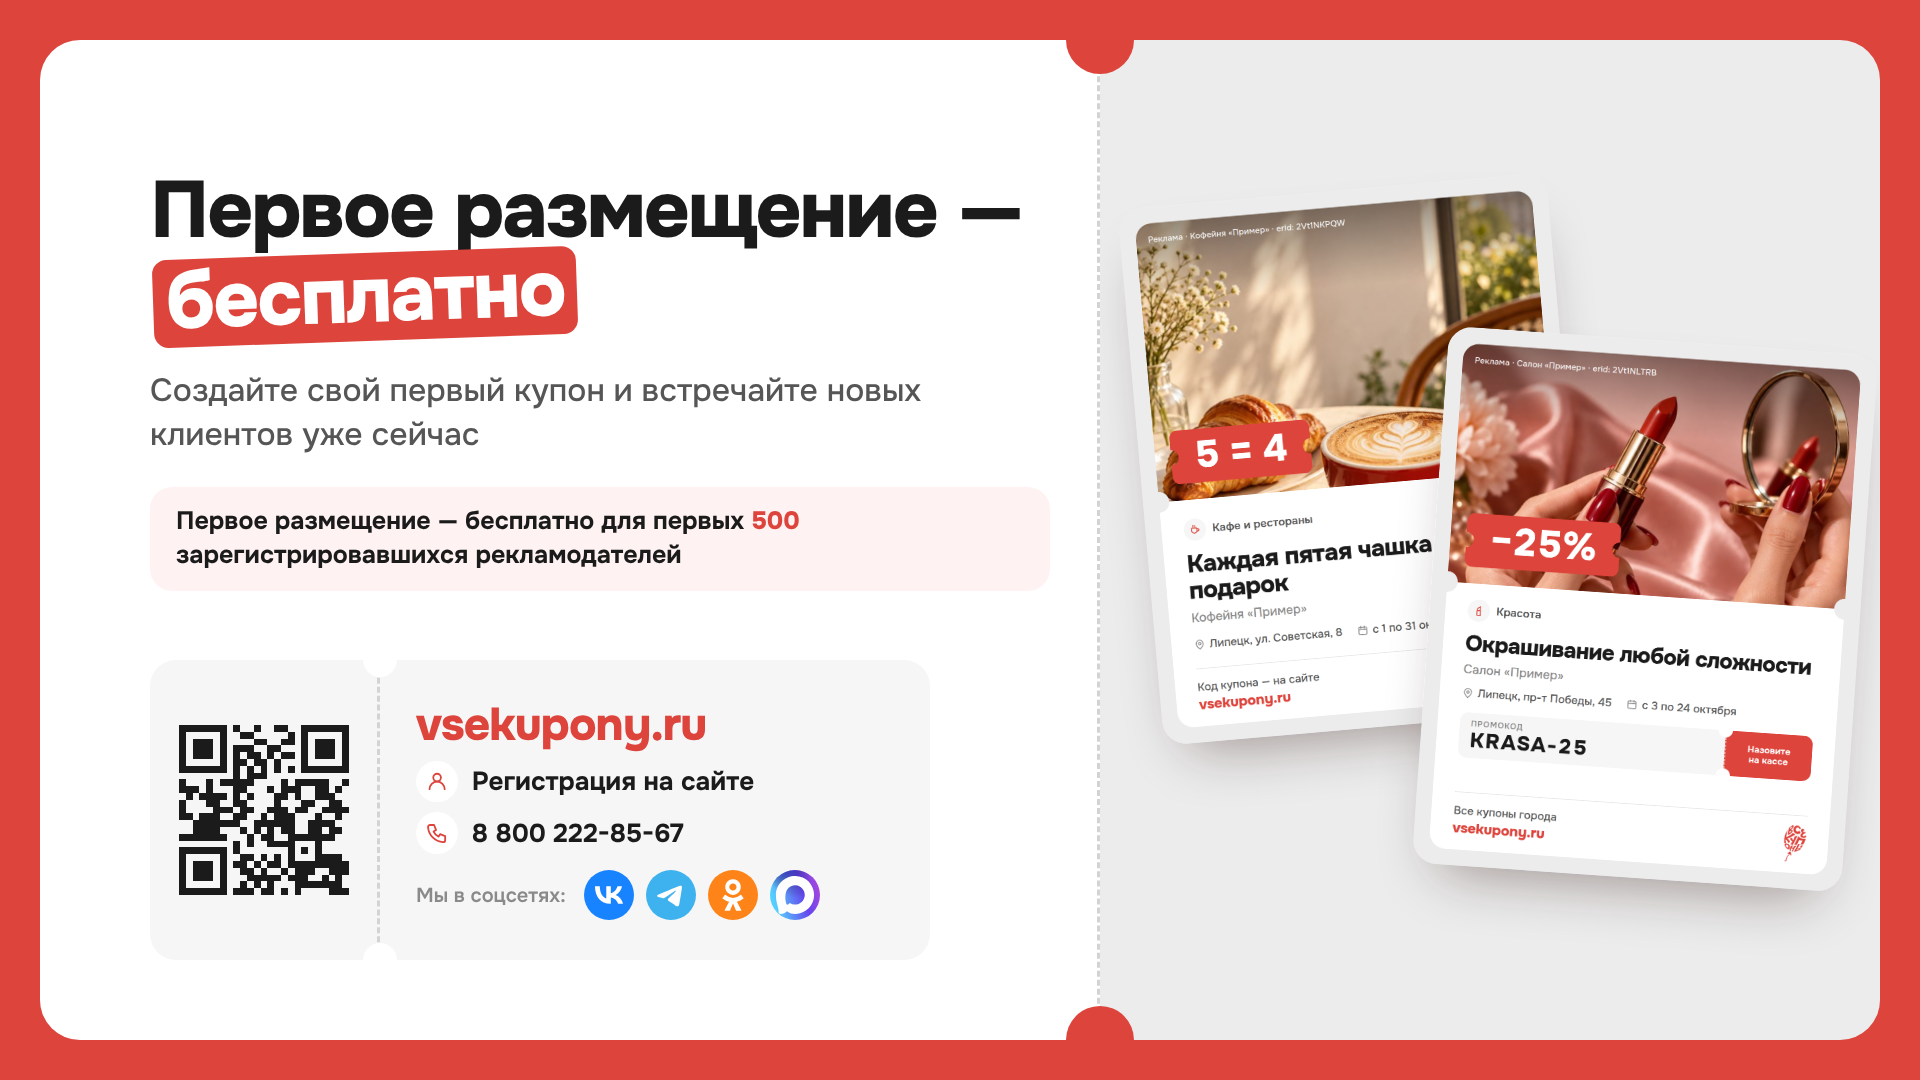
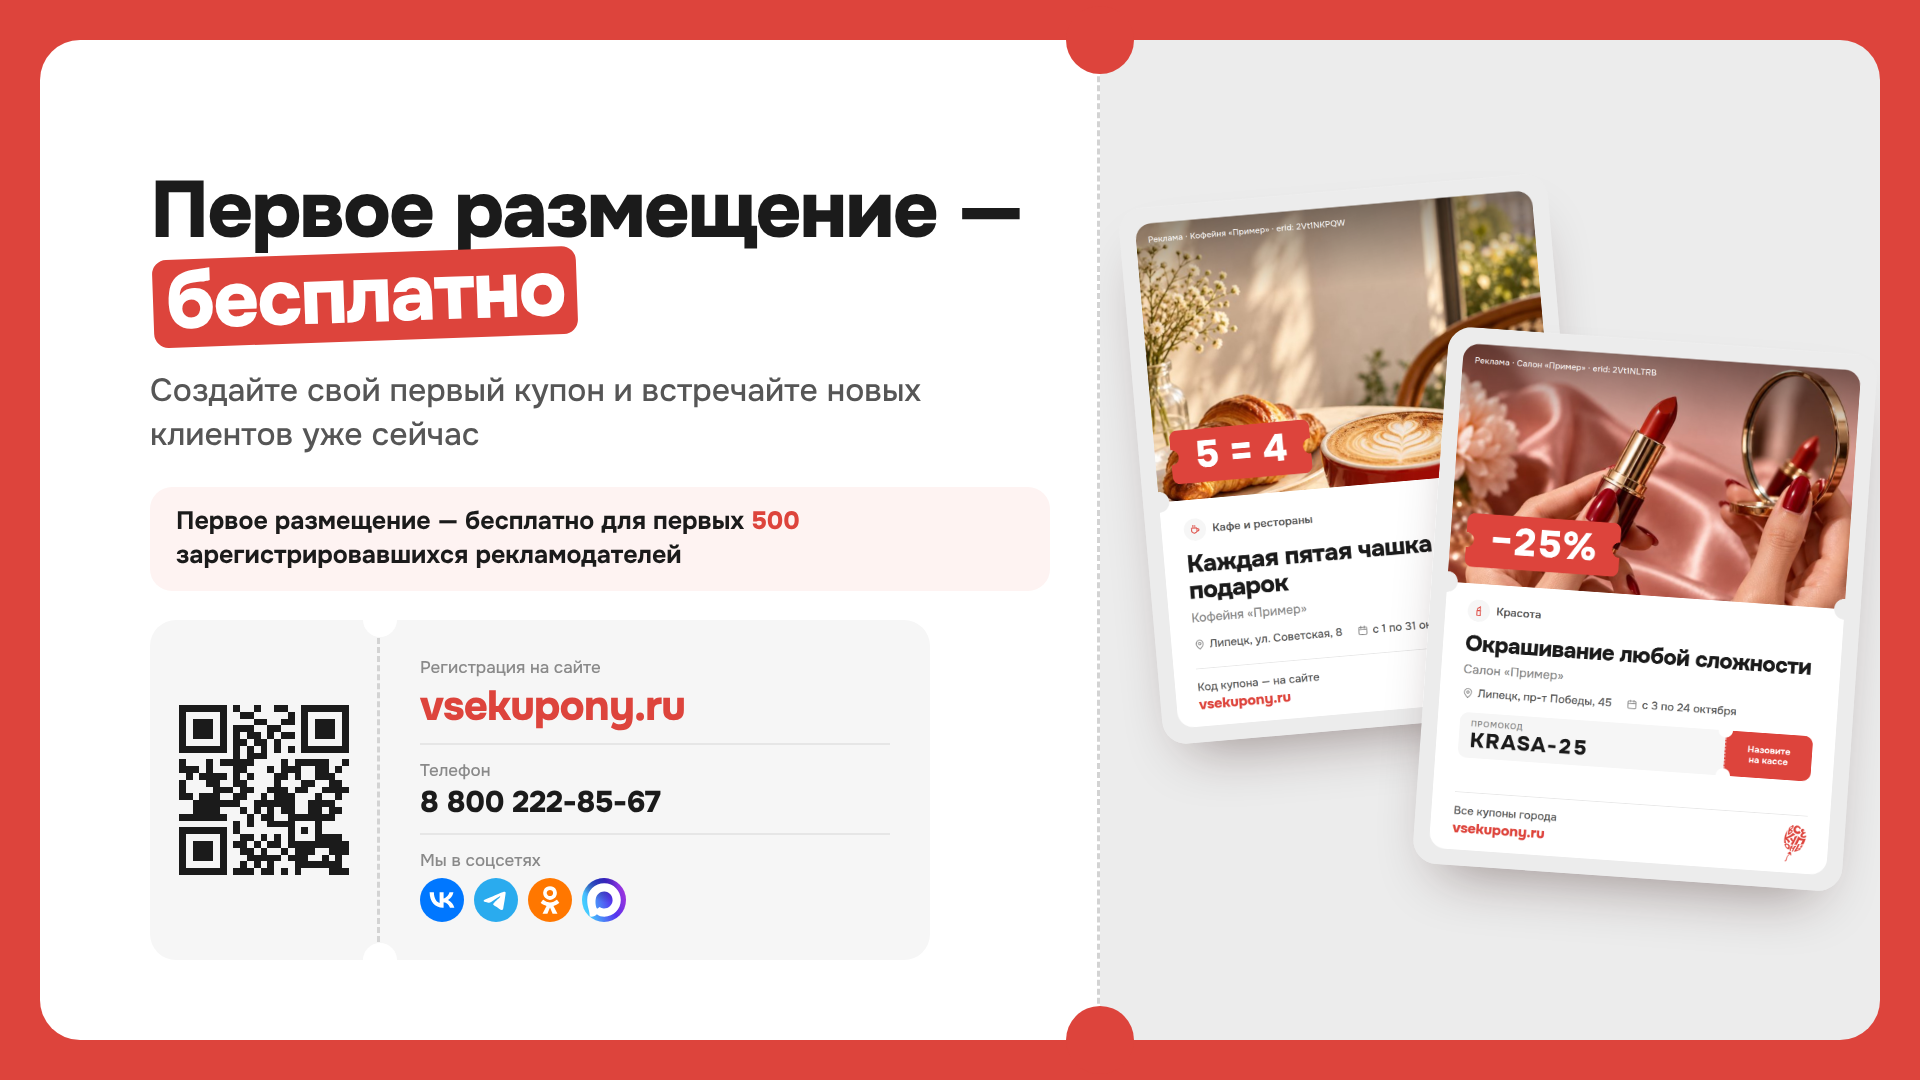
Презентация: QR-купон аккуратнее — группы с подписями, значки одного размера
Сайт, телефон и соцсети — ровными группами друг под другом: подпись
сверху, значение под ней, между группами тонкая линия. render-deck.py
--png — только картинки, без PDF.

Claude-Session: https://claude.ai/code/session_01HQTTQEBkqu3b2tPP56NRpL

Changed region(s): [[0.2188, 0.6111, 0.4375, 0.8556], [0.0938, 0.6417, 0.1875, 0.8556]]

diff --git a/social-kit/deck.html b/social-kit/deck.html
@@ -188,16 +188,19 @@ a{color:inherit;text-decoration:none}
 .qrc__l img{display:block;width:170px;height:170px}
 .qrc__n{position:absolute;left:213px;width:34px;height:34px;border-radius:50%;background:#fff}
 .qrc__n--t{top:-17px}.qrc__n--b{bottom:-17px}
-.qrc__r{flex:1;display:flex;flex-direction:column;justify-content:center;gap:6px;padding:0 36px}
-.qrc__k{font-size:21px;font-weight:600;color:var(--ink-3)}
-.qrc__site{font-size:46px;font-weight:800;letter-spacing:-.02em;color:var(--brand);line-height:1.1}
-.soc{display:flex;align-items:center;gap:12px;margin-top:14px}
-.soc__k{font-size:20px;font-weight:600;color:var(--ink-3);margin-right:6px}
-.soc a{display:block;width:50px;height:50px;border-radius:50%;overflow:hidden}
+/* Правая часть купона — ровные группы друг под другом: маленькая
+   подпись сверху, значение под ней, между группами тонкая линия. */
+.qrc__r{flex:1;display:flex;flex-direction:column;justify-content:center;padding:0 40px}
+.qrc__g{display:flex;flex-direction:column;align-items:flex-start;gap:6px}
+.qrc__g + .qrc__g{margin-top:16px;padding-top:16px;border-top:2px solid #E6E6E6;align-self:stretch}
+.qrc__k{font-size:17px;font-weight:500;color:var(--ink-3);line-height:1.2}
+.qrc__site{font-size:42px;font-weight:800;letter-spacing:-.02em;color:var(--brand);line-height:1}
+.qrc__tel{font-size:30px;font-weight:800;letter-spacing:-.01em;color:var(--ink);line-height:1}
+.soc{display:flex;align-items:center;gap:10px}
+.soc a{display:block;width:44px;height:44px;border-radius:50%;overflow:hidden}
 .soc a svg,.soc a img{display:block;width:100%;height:100%}
 .soc a .soc-ic__bg{fill:var(--soc-c)}
 .soc a .soc-ic__g{fill:#fff}
-.soc a.is-empty{opacity:.9}
 /* Справа — витрина на телефоне (photos/lk/home-mobile.png) с метками:
    знаем город, знаем, что ищут, видим, что смотрят и забирают. */
 .phone-panel{position:absolute;left:1100px;top:40px;right:40px;bottom:40px;border-radius:0 40px 40px 0;background:#ECECEC;overflow:hidden}
@@ -427,9 +430,7 @@ a{color:inherit;text-decoration:none}
 .posts img:nth-child(2){left:330px;top:300px;transform:rotate(4deg)}
 .free{margin-top:30px;display:block;padding:18px 26px;border-radius:22px;background:var(--brand-50);font-size:25px;font-weight:700;line-height:1.35;color:var(--ink)}
 .free b{color:var(--brand)}
-.qrc--big{height:300px}
-.qrc--big .qrc__r{gap:10px}
-.qrc--big .soc{margin-top:6px}
+.qrc--big{height:340px}
 .cont__l{display:flex;flex-direction:column;gap:12px}
 .cont__r{display:flex;align-items:center;gap:14px;font-size:26px;font-weight:700;color:var(--ink)}
 .cont__r .ic{font-size:22px;background:#fff}
@@ -452,12 +453,12 @@ a{color:inherit;text-decoration:none}
         <div class="qrc__l"><a href="https://vsekupony.ru"><img src="qr-site.svg" alt="QR-код: vsekupony.ru"></a></div>
         <i class="qrc__n qrc__n--t"></i><i class="qrc__n qrc__n--b"></i>
         <div class="qrc__r">
-          <span class="qrc__k">Наведите камеру или перейдите по&nbsp;ссылке</span>
-          <a class="qrc__site" href="https://vsekupony.ru">vsekupony.ru</a>
-          <div class="soc"><span class="soc__k">Мы&nbsp;в&nbsp;соцсетях:</span>
-            <a data-soc="vk" title="ВКонтакте"></a><a data-soc="tg" title="Telegram"></a><a data-soc="ok" title="Одноклассники"></a><a data-soc="max" title="MAX"></a>
-          </div>
+          <div class="qrc__g"><span class="qrc__k">Наведите камеру или перейдите по&nbsp;ссылке</span>
+            <a class="qrc__site" href="https://vsekupony.ru">vsekupony.ru</a></div>
+          <div class="qrc__g"><span class="qrc__k">Мы&nbsp;в&nbsp;соцсетях</span>
+            <div class="soc"><a data-soc="vk" title="ВКонтакте"></a><a data-soc="tg" title="Telegram"></a><a data-soc="ok" title="Одноклассники"></a><a data-soc="max" title="MAX"></a></div></div>
         </div>
+      </div>
       </div>
     </div>
     <div class="phone-panel">
@@ -721,13 +722,14 @@ a{color:inherit;text-decoration:none}
         <div class="qrc__l"><a href="https://vsekupony.ru"><img src="qr-site.svg" alt="QR-код: vsekupony.ru"></a></div>
         <i class="qrc__n qrc__n--t"></i><i class="qrc__n qrc__n--b"></i>
         <div class="qrc__r">
-          <a class="qrc__site" href="https://vsekupony.ru">vsekupony.ru</a>
-          <a class="cont__r" href="https://vsekupony.ru"><span class="ic" data-ic="user"></span>Регистрация на&nbsp;сайте</a>
-          <a class="cont__r" href="tel:+78002228567"><span class="ic" data-ic="phone"></span>8&nbsp;800&nbsp;222-85-67</a>
-          <div class="soc"><span class="soc__k">Мы&nbsp;в&nbsp;соцсетях:</span>
-            <a data-soc="vk" title="ВКонтакте"></a><a data-soc="tg" title="Telegram"></a><a data-soc="ok" title="Одноклассники"></a><a data-soc="max" title="MAX"></a>
-          </div>
+          <div class="qrc__g"><span class="qrc__k">Регистрация на&nbsp;сайте</span>
+            <a class="qrc__site" href="https://vsekupony.ru">vsekupony.ru</a></div>
+          <div class="qrc__g"><span class="qrc__k">Телефон</span>
+            <a class="qrc__tel" href="tel:+78002228567">8&nbsp;800&nbsp;222-85-67</a></div>
+          <div class="qrc__g"><span class="qrc__k">Мы&nbsp;в&nbsp;соцсетях</span>
+            <div class="soc"><a data-soc="vk" title="ВКонтакте"></a><a data-soc="tg" title="Telegram"></a><a data-soc="ok" title="Одноклассники"></a><a data-soc="max" title="MAX"></a></div></div>
         </div>
+      </div>
       </div>
     </div>
     <div class="posts">
